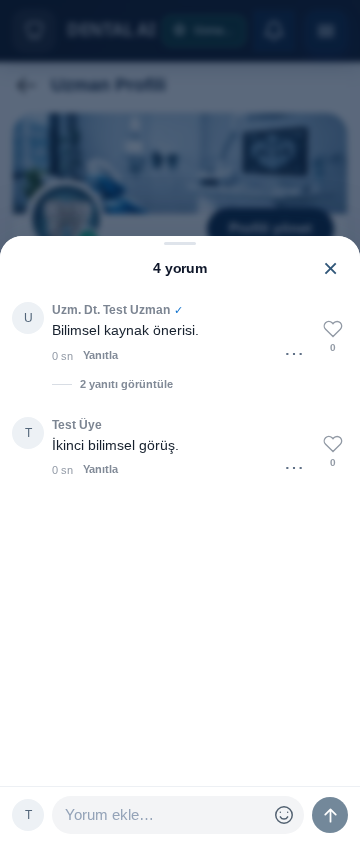
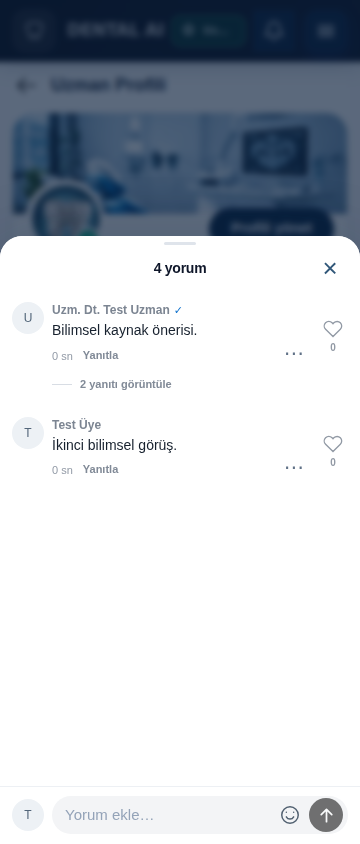
Record verified moderator inbox and browser screenshots [skip render]

diff --git a/docs/compact_comments_2026-11-09.md b/docs/compact_comments_2026-11-09.md
@@ -34,7 +34,7 @@ API yetkileri, CSRF, gizli/engellenmiş yorumların görünürlüğü, sayfalama
 - Güncel oturumda tam tarayıcı koşusu başlatıldı, fakat Chromium uygulama açılmadan `socket() failed: Operation not permitted` hatasıyla durdu. Bu ortam hatası başarılı tarayıcı testi olarak sayılmaz; PR'ın mevcut GitHub Expert Social iş akışı tarayıcıları yeniden çalıştırır.
 - JavaScript sözdizimi ve diff boşluk denetimi geçti. Akademik/genel uygulama paketinin tamamı bu oturumda tekrar çalıştırılmadı.
 
-`docs/social-completion/compact-comments-{360,430,1280}.png` dosyaları önceki başarılı yerel tarayıcı koşusundan kalan sentetik ekranlardır; canlı ekran oldukları iddia edilmez.
+`docs/social-completion/compact-comments-{360,430,1280}.png` dosyaları son GitHub Chromium koşusunun sentetik ekranlarıyla güncellendi; canlı ekran oldukları iddia edilmez.
 
 ## Gönder düğmesi, admin inceleme bildirimi ve hız
 
@@ -52,3 +52,15 @@ Bildirim ve içerik aynı DB işlemindedir; rollback ikisini de geri alır. Ağ 
 | Render HTTP gecikme metriği boştu; son CPU/bellek örneklerinde kaynak baskısı görülmedi. | Tüm sayfa gecikmelerinin tek nedeni bulundu veya canlı gecikme artık belli bir süreye indi denmez. |
 
 Bu değişikliklerin ilk doğrulaması: **95 geçti** (admin inbox, rollback/teslim, silme zincirleri, startup, schema, eski moderasyon/temizlik ve gerçek PostgreSQL danışmanlık performansı dahil). GitHub'da önceki `e410e23` sürümünün Expert Social koşusu **560 geçti, 5 atlandı**; bu yeni değişikliklerin tarayıcı sonucu değildir. Güncel tam regresyon ve tarayıcı sonucu PR üzerinden ayrıca kaydedilir.
+
+
+## Son doğrulama
+
+- Uygulama commit: `959a265ac75f5179d95dc025eab6f1de581752c4`.
+- Ayrı yerel koşuların örtüşmeyen toplamı: **487 geçti, 4 dış servis testi atlandı**.
+- GitHub Expert Social: **575 geçti, 5 atlandı**; gerçek Chromium, yeni düğmenin 34×34 boyutu/simgesi, admin menüsündeki sayaç, bildirimden doğru içerik ekranına geçiş ve kuyruktan insan onayı dahil. Koşu: https://github.com/dentalaidestek/dental-ai-v02/actions/runs/42630984117
+- Admin security, Security recovery ve Mobile Android CI geçti.
+- Academic V2: 40 başarısız sonuç; listelenen 30 test kimliği önceki e410e23 ile aynı, yeni kimlik yok. Semantic PostgreSQL başarısız iki test kimliği de öncekiyle aynı (`test_every_allowed_planner_search_reaches_real_postgres[8]`, `[16]`). Genel uygulama paketi ayrı izlenir; tüm depo yeşil olarak sunulmaz.
+- Son bağımsız incelemede açık önemli bulgu kalmadı. Zincirleme silmede bildirim kapanması API ile yeniden doğrulandı.
+- Güncel sentetik görseller `docs/social-completion/compact-comments-{360,430,1280}.png` ve `moderation-human-queue-1280.png`. 360 px yorum ve 1280 px denetim ekranı ayrıca görsel olarak incelendi.
+- Main birleştirmesi, Render dağıtımı veya ücretli altyapı değişikliği yapılmadı.

diff --git a/docs/superpowers/plans/2026-11-09-review-notices-speed.md b/docs/superpowers/plans/2026-11-09-review-notices-speed.md
@@ -6,9 +6,9 @@ Architecture: Mevcut sosyal akış ve AdminNotice/RealtimeEvent altyapısı kull
 
 Constraints: PR #254 üzerinde devam; main/deploy yapılmaz. İnceleme bekleyen görseller otomatik yayınlanmaz. Bildirimde gönderinin metni/görseli/kişisel veri bulunmaz. Aktif doğrulanmış admin erişimi korunur.
 
-- [ ] Düğmeyi yazma alanının içine küçük koyu yuvarlak yukarı ok olarak yerleştir; metin etiketi yalnızca erişilebilir ad olsun.
-- [ ] Yeni/düzenlenen pending içerik için tekilleştirilmiş admin bildirimi, karar sonrası kapatma, doğrudan içerik bağlantısı ve admin menüsünde bekleyen sayısı; rollback ve başarısız anlık teslim durumlarını test et.
-- [ ] Kurulu şema zaten hazırsa soğuk başlangıçta tekrarlanan migration/backfill'i atla; eksikte mevcut geçişi çalıştırıp tekrar denetle. Şema okumasını toplu yap. Uzman dizinindeki kişi başına tekrar sorguları toplu sorgulara çevir.
-- [ ] İlgili API/PostgreSQL/hız ve mevcut akış testleri, bağımsız inceleme ve GitHub Chromium kontrolü; PR ve raporu güncelle.
+- [x] Düğmeyi yazma alanının içine küçük koyu yuvarlak yukarı ok olarak yerleştir; metin etiketi yalnızca erişilebilir ad olsun.
+- [x] Yeni/düzenlenen pending içerik için tekilleştirilmiş admin bildirimi, karar sonrası kapatma, doğrudan içerik bağlantısı ve admin menüsünde bekleyen sayısı; rollback ve başarısız anlık teslim durumlarını test et.
+- [x] Kurulu şema zaten hazırsa soğuk başlangıçta tekrarlanan migration/backfill'i atla; eksikte mevcut geçişi çalıştırıp tekrar denetle. Şema okumasını toplu yap. Uzman dizinindeki kişi başına tekrar sorguları toplu sorgulara çevir.
+- [x] İlgili API/PostgreSQL/hız ve mevcut akış testleri, bağımsız inceleme ve GitHub Chromium kontrolü; PR ve raporu güncelle.
 
 Observed: canlı son yeniden açılışta süreç başlangıcından hazır olmaya yaklaşık 58 saniye (28 saniye import + 30 saniye startup); free plan. HTTP latency metriği boş, mevcut CPU ve bellek baskısı gözlenmedi. Tüm gecikmelerin tek nedeninin bu olduğu iddia edilmez.
